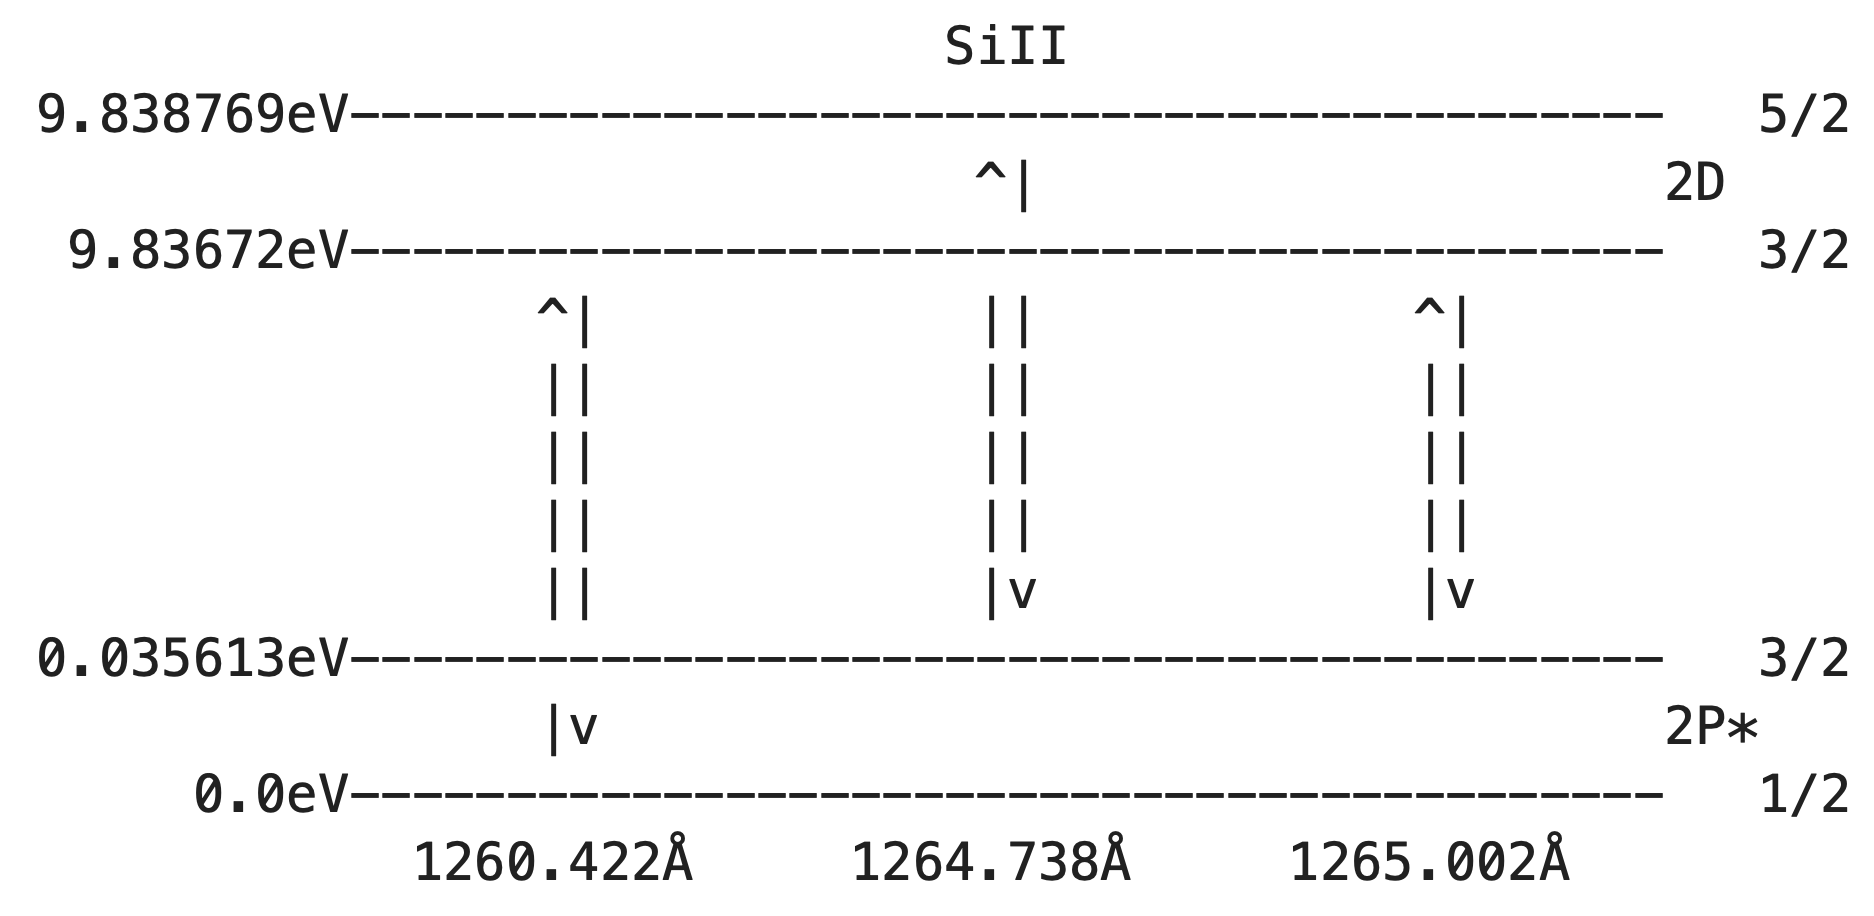
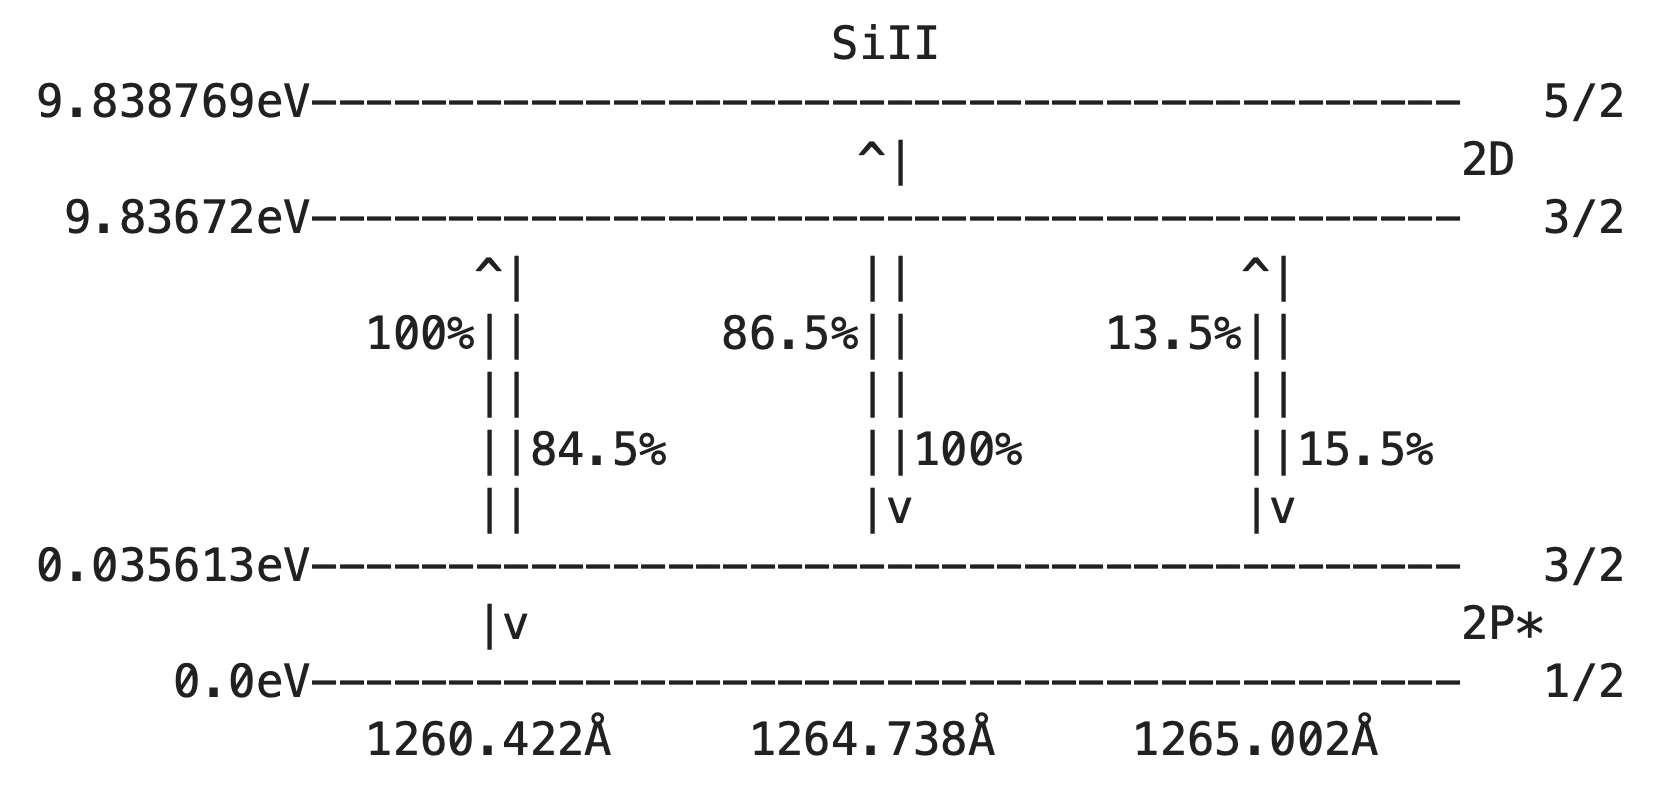
Added transition probabilities to level diagram

diff --git a/spectools/line_data.py b/spectools/line_data.py
@@ -101,6 +101,30 @@ def get_Elevels(line):
     return df_group
 
 
+def get_transitionProbabilities(line):
+    df_group = get_Elevels(line)
+    ntrans = len(df_group)
+    Jis = df_group["Jl"].values
+    Jks = df_group["Ju"].values
+    Ji_set = np.unique(Jis)
+    Jk_set = np.unique(Jks)
+    Ji_pairs = Ji_set
+    Jk_pairs = Jk_set
+    id_lower_pairs = [np.argwhere(Jis == Ji_pair).ravel() for Ji_pair in Ji_pairs]
+    id_upper_pairs = [np.argwhere(Jks == Jk_pair).ravel() for Jk_pair in Jk_pairs]
+    prob_up = np.zeros(ntrans)
+    for i, id_lower_pair in enumerate(id_lower_pairs):
+        A_lower_pair = df_group["A"].values[id_lower_pair]
+        prob_upward_pair = A_lower_pair / A_lower_pair.sum()
+        prob_up[id_lower_pairs[i]] = prob_upward_pair
+    prob_down = np.zeros(ntrans)
+    for i, id_upper_pair in enumerate(id_upper_pairs):
+        A_upper_pair = df_group["A"].values[id_upper_pair]
+        prob_downward_pair = A_upper_pair / A_upper_pair.sum()
+        prob_down[id_upper_pairs[i]] = prob_downward_pair
+    return prob_up, prob_down
+
+
 def level_diagram(line: str) -> None:
     ion, _ = line.split("_")
     idx_num = utils.first_numid(ion)
@@ -108,6 +132,7 @@ def level_diagram(line: str) -> None:
     ion_state = int(ion[idx_num:])
     ion_roman = element + utils.int_to_roman(ion_state)
     df_group = get_Elevels(line)
+    p_ups, p_dns = get_transitionProbabilities(line)
 
     #     if ion=='HI':
     #         wave_label = 'ritz_wl_vac(A)'
@@ -166,6 +191,11 @@ def level_diagram(line: str) -> None:
     # create level diagram grid
     nrows = utils.nlayers(nupper) + nmiddle + utils.nlayers(nlower)
     ncols = nlines * pad_lines
+
+    # idx_uprob = utils.nlayers(nupper) + nmiddle//2 - 1
+    idx_uprob = idx_ulevels + 2
+    idx_dprob = idx_llevels - 2
+
     grid = np.empty((nrows, ncols + pad_ikterm), dtype=object)
     grid[:] = " "  # fill grid with single spaces
     for i in range(nlines):
@@ -173,10 +203,24 @@ def level_diagram(line: str) -> None:
         grid[idx_up[i] : idx_down[i] + 1, idx_linesl[i]] = (
             "|"  # fill level transition arrow bars
         )
+        p_up = p_ups[i]
+        if p_up == 1.0:
+            p_str = np.array(list("100%"))
+            grid[idx_uprob, idx_linesl[i] - 4 : idx_linesl[i]] = p_str
+        else:
+            p_str = np.array(list(str(round(p_ups[i], 3) * 100) + "%"))
+            grid[idx_uprob, idx_linesl[i] - 5 : idx_linesl[i]] = p_str
         # right side
         grid[idx_up[i] - 1 : idx_down[i], idx_linesr[i]] = (
             "|"  # fill level transition arrow bars
         )
+        p_dn = p_dns[i]
+        if p_dn == 1.0:
+            p_str = np.array(list("100%"))
+            grid[idx_dprob, idx_linesr[i] + 1 : idx_linesr[i] + 5] = p_str
+        else:
+            p_str = np.array(list(str(round(p_dns[i], 3) * 100) + "%"))
+            grid[idx_dprob, idx_linesr[i] + 1 : idx_linesr[i] + 6] = p_str
     grid[idx_levels, :-pad_ikterm] = "-"  # fill energy level dashes
     grid[idx_down, idx_linesr] = "v"  # fill lower level arrow caps
     grid[idx_up, idx_linesl] = "^"  # fill upper level arrow caps
@@ -216,3 +260,125 @@ class LineData:
 
     def print_leveldiagram(self):
         level_diagram(self.line_name)
+
+
+class AbsLineModel:
+    def __init__(self, line_name: str, v_arr=None, vres=None):
+        self.line_name = line_name
+        self.line_data = load_lineDataFrame(line_name)
+        [setattr(self, key, value) for key, value in self.line_data.items()]
+
+        if vres is None:
+            self.vres = 1
+        else:
+            self.vres = vres
+        if v_arr == None:
+            self.v_arr = np.arange(-1000, 1000 + self.vres, self.vres)
+        else:
+            self.v_arr = v_arr
+        self.wave_arr = utils.w_doppler(self.v_arr, self.wave)
+        self.flux_arr = None
+
+    def H_approx(self, a, x):
+        Ai = [
+            15.75328153963877,
+            286.9341762324778,
+            19.05706700907019,
+            28.22644017233441,
+            9.526399802414186,
+            35.29217026286130,
+            0.8681020834678775,
+        ]
+        Bi = [
+            0.0003300469163682737,
+            0.5403095364583999,
+            2.676724102580895,
+            12.82026082606220,
+            3.21166435627278,
+            32.032981933420,
+            9.0328158696,
+            23.7489999060,
+            1.82106170570,
+        ]
+        z = x**2
+        conditions = [z <= 3, (z > 3) & (z < 25), z >= 25]
+
+        def H1(z):
+            return np.exp(-z) * (
+                1.0
+                - a
+                * (
+                    Ai[0]
+                    + Ai[1] / (z - Ai[2] + Ai[3] / (z - Ai[4] + Ai[5] / (z - Ai[6])))
+                )
+            )
+
+        def H2(z):
+            return np.exp(-z) + a * (
+                Bi[0]
+                + Bi[1]
+                / (
+                    z
+                    - Bi[2]
+                    + Bi[3] / (z + Bi[4] + Bi[5] / (z - Bi[6] + Bi[7] / (z - Bi[8])))
+                )
+            )
+
+        def H3(z):
+            return (a / np.sqrt(np.pi)) / (z - 1.5 - 1.5 / (z - 3.5 - 5 / (z - 5.5)))
+
+        Hs = [H1, H2, H3]
+        H = np.piecewise(z, conditions, Hs)
+        return H
+
+    def voigt_profile(
+        self,
+        b: float,
+        log_n: float,
+        vout: float = 0,
+        cf: float = 1,
+        wave_arr: np.ndarray = None,
+        wave0: float = None,
+        f: float = None,
+        A: float = None,
+    ) -> tuple[np.ndarray, np.ndarray]:
+        if wave0 == None:
+            wave0 = self.wave
+        if f == None:
+            f = self.f
+        if A == None:
+            A = self.A
+        if wave_arr == None:
+            wave_arr = self.wave_arr
+        c = utils.C_CMS
+        m_e = 9.1094e-28  # g
+        e = 4.8032e-10  # cgs units
+        cspeed = c / 1e5
+        #         print(f"vout = {vout}")
+        x0 = wave0 * (
+            (vout * 1e5) / c + 1.0
+        )  # This is the wavelength from line center in Angstroms
+        C_a = np.sqrt(np.pi) * e**2 * f * wave0 * 1.0e-8 / m_e / c / (b * 1e5)
+        a = wave0 * 1.0e-8 * A / (4.0 * np.pi * b * 1e5)
+        x = (cspeed / b) * (1.0 - x0 / wave_arr)
+        N = 10**log_n
+        tau = np.float64(C_a) * N * self.H_approx(a, x)
+        #         print(f"cf = {cf}")
+        self.flux_arr = (
+            cf * np.exp(-tau) + 1 - cf
+        )  # This converts the optical depth to Flux units using the radiative transfer equation
+        return wave_arr, self.flux_arr, tau
+
+    # def convolve(self, vsig: float, x_arr: np.ndarray = None, y_arr: np.ndarray = None):
+    #     if x_arr is None:
+    #         x_arr = self.wave_arr
+    #     if y_arr is None:
+    #         y_arr = self.flux_arr
+    #     c = 2.99792e10
+    #     cspeed = c / 1e5
+    #     wave0 = self.line_wave
+    #     sigma_pixel = vsig / (
+    #         (x_arr[1] - x_arr[0]) * cspeed / wave0
+    #     )  # & $  ; gaussian sigma of convolution kernel in pixels
+    #     c_arr = gaussian_filter(y_arr, sigma_pixel)
+    #     return c_arr

diff --git a/spectools/utils.py b/spectools/utils.py
@@ -1,5 +1,8 @@
 import numpy as np
 
+C_CMS = 2.99792e10  # speed of light [cm/s]
+C_KMS = 2.99792e5  # speed of light [km/s]
+
 ROMAN = [
     (1000, "M"),
     (900, "CM"),
@@ -38,3 +41,18 @@ def find_nearest(array, value):
 
 def nlayers(n):
     return 2 * n - 1
+
+
+def w_doppler(v, lambda_s):
+    lambda_o = lambda_s * (v / C_KMS + 1.0)
+    return lambda_o
+
+
+def convolve_gauss(x, y, sigma):
+    y_conv = []
+    for xs in x:
+        gkv = np.exp(-((x - xs) ** 2) / (2 * (sigma**2)))
+        gkv /= gkv.sum()
+        y_conv.append((y * gkv).sum())
+
+    return y_conv
